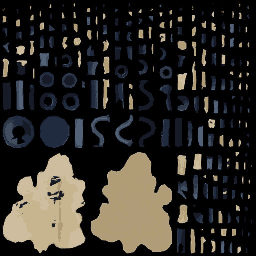
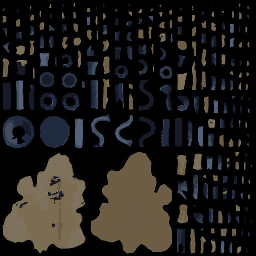
Floor 1: the made wall faces chosen for all three kinds (art bible 4.11); the fallen candelabrum's wax and the grave marker's teal face darkened, so neither reads as a pickup or a screen
Claude-Session: https://claude.ai/code/session_01UDkMRhD7nMX6VYGjtCxqbY

diff --git a/docs/art-bible.md b/docs/art-bible.md
@@ -182,6 +182,14 @@ materials (`materials` in its look, docs/architecture.md, Pixel look). Step C: p
 middle; the walls carry moss and more niches. The six relics are Tripo models (docs/assets.md, asset log), cut to under
 3,500 triangles as closed hulls with their colour baked (`tools/art/`). **The owner accepted B and C (2026-10-19).**
 
+### 4.11 Floor 1 in the game, step D: made wall faces (built 2026-10-19)
+
+Floor 1's three kinds of wall (bricks, ashlar, bones) are faces made from Tripo Studio pictures, reduced to the kit's
+texel by a majority colour a block and moved into the floor's wall colours (`tools/art/walltile.py`; docs/assets.md,
+Wall faces; the pictures in `docs/art/walls/`). The code still draws its stains, moss, niches and pillars over them.
+**The owner chose the made faces for all three (2026-10-19).** The other floors keep the kit's drawn walls until their
+own pass. Floor tiles stay drawn (4.8).
+
 ## 5. The reference pictures
 
 The owner's five pictures (2026-10-15), in `docs/art/reference/`. They are measured over the whole picture, the magenta
